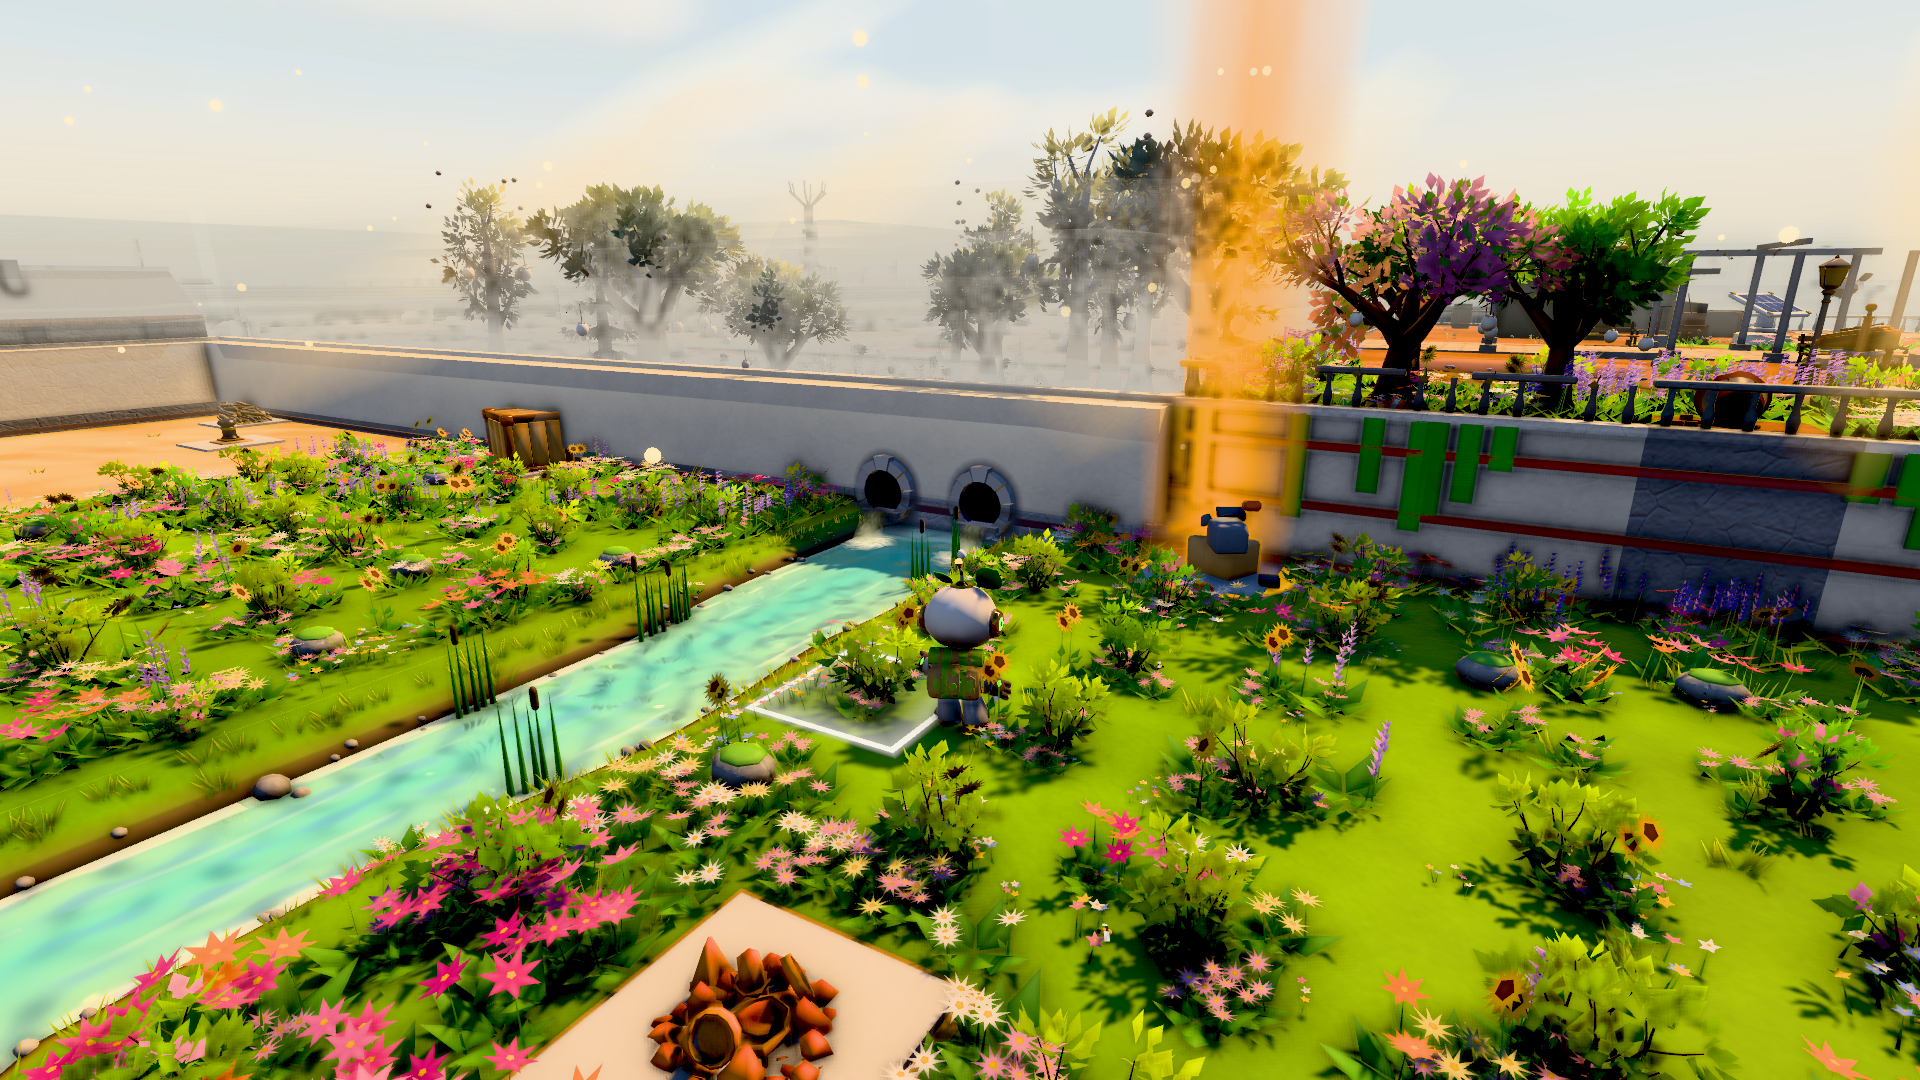
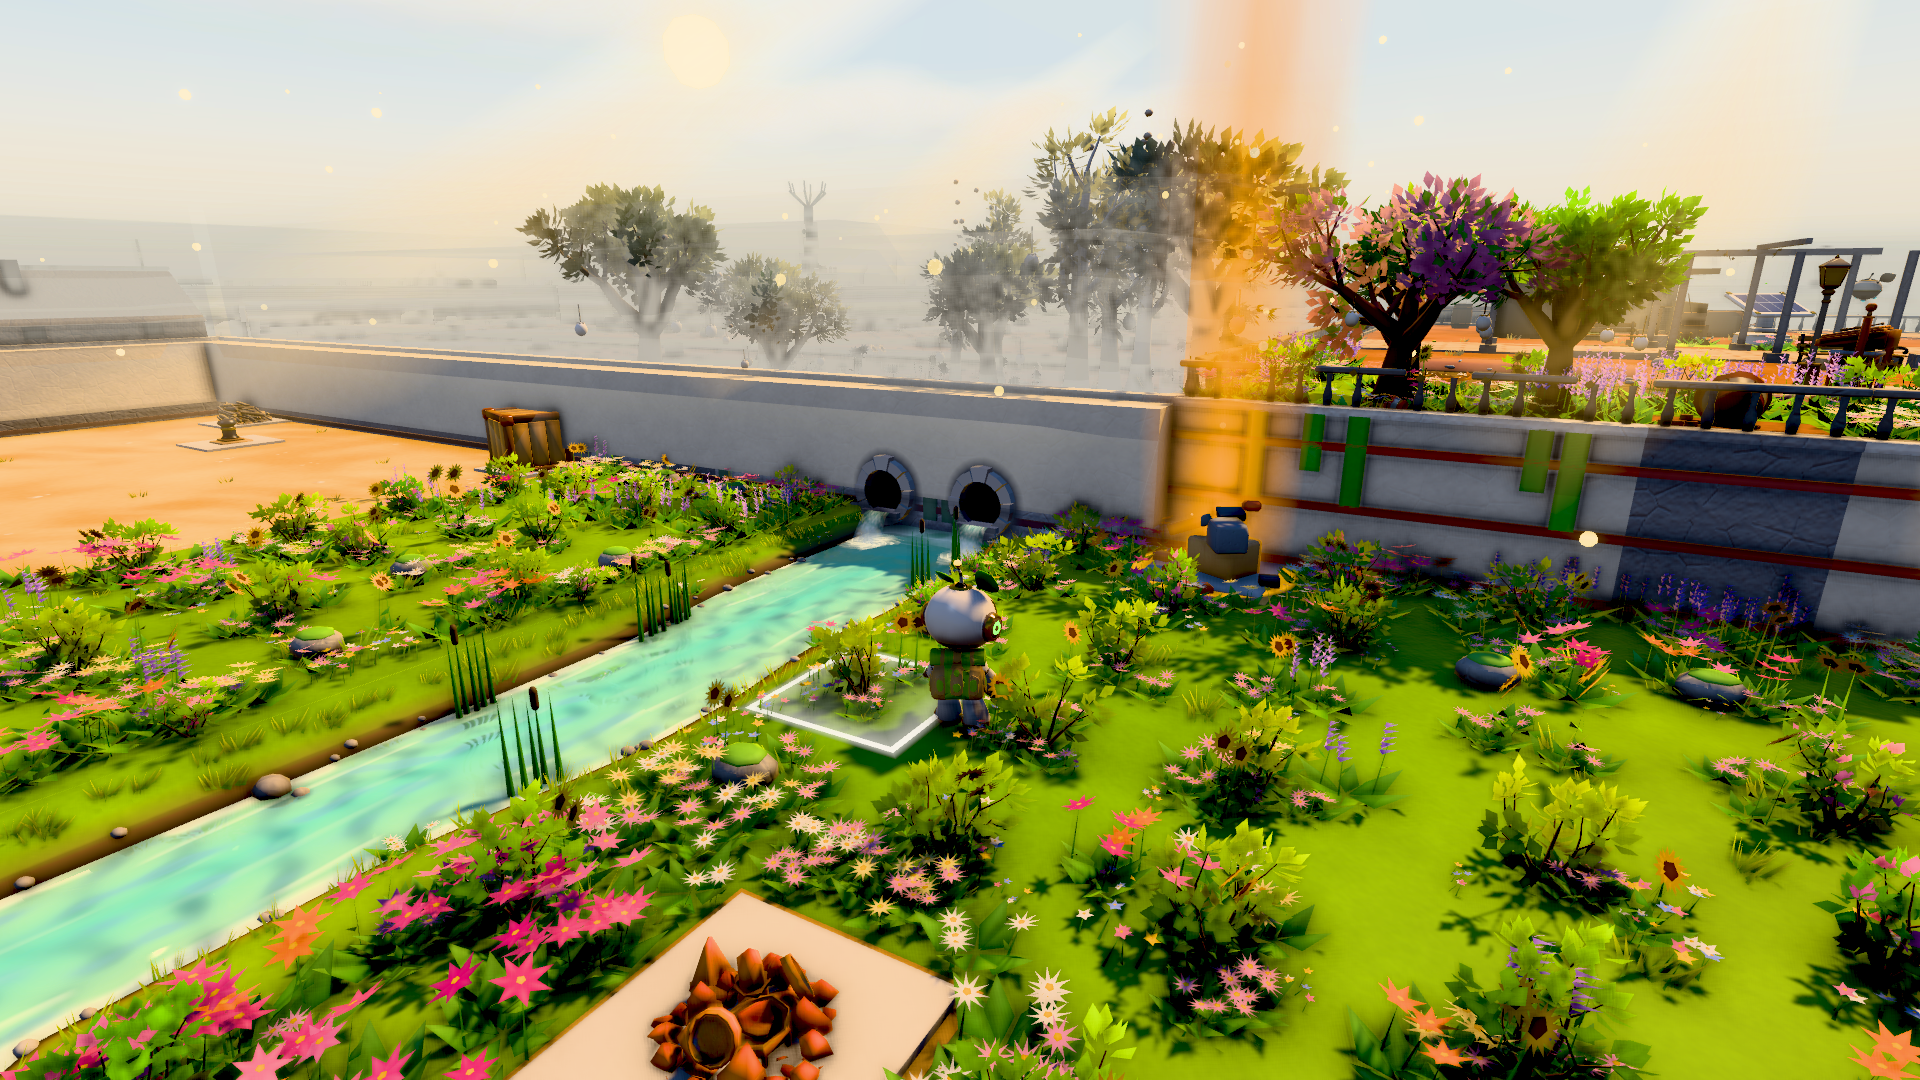
#697 (E28.W04): the outlet's stream is moonlit blue-grey at dusk and night, not amber
The stream, foam and spray were lit two-sided, which turned their normals into the wall where they took the
warm ground bounce. They're one-sided now, and by night they fade to falls.nightColour (#6b8794) with most of
their sheen gone. Fresh culvert shots and close-ups at noon, golden hour, dusk (new) and night.

diff --git a/src/rendering/WaterLife.ts b/src/rendering/WaterLife.ts
@@ -803,7 +803,9 @@ export class WaterLife {
       m.blendType = pc.BLEND_NORMAL;
       m.depthWrite = false;
       m.cull = pc.CULLFACE_NONE;
-      m.twoSidedLighting = true;
+      // one-sided lighting: the sheets' and foam's normals already face out to the water and up. Two-sided lighting
+      // turned them into the wall for whichever side the engine called the back, where they took the warm bounce
+      // off the ground: an amber stream under a blue moonlit night (the send-back on #707)
       m.useFog = true;
       return m;
     };
@@ -879,9 +881,17 @@ export class WaterLife {
       fleck.update();
       // the stream, its foam and spray: lit like the world, with a little light of their own by day only
       const own = new pc.Color().fromString(L.falls.colour).mulScalar(L.falls.glow * (1 - night));
+      // by night the pale stream turns the canal's moonlit blue-grey and loses most of its sheen, so it can't
+      // read as a lamp under the wall
+      const day = new pc.Color().fromString(L.falls.colour);
+      const dark = new pc.Color().fromString(L.falls.nightColour);
+      const diffuse = new pc.Color().lerp(day, dark, night);
+      const sheen = L.falls.sheen * (1 - 0.6 * night);
       for (const [i, m] of this.splash.entries()) {
         // the foam and spray lie in the sun already: half as much of their own as the stream (in the wall's shade)
         m.emissive = i ? own.clone().mulScalar(0.5) : own;
+        m.diffuse = diffuse;
+        m.specular = new pc.Color(sheen, sheen, sheen);
         m.update();
       }
     }

diff --git a/tests/water-life.test.ts b/tests/water-life.test.ts
@@ -72,10 +72,16 @@ describe('LOOK.waterLife', () => {
     expect(L.falls.glow).toBeGreaterThan(0);
     expect(L.falls.glow).toBeLessThanOrEqual(0.4);
     expect(L.falls.sheen).toBeLessThan(1);
+    // by night the stream turns a cool blue-grey, darker than by day: no amber, nothing that reads as a light
+    const rgb = (h: string) => [1, 3, 5].map((i) => parseInt(h.slice(i, i + 2), 16));
+    const [nr, ng, nb] = rgb(L.falls.nightColour);
+    expect(nb).toBeGreaterThan(nr);
+    expect(nb).toBeGreaterThanOrEqual(ng);
+    expect(nr + ng + nb).toBeLessThan(rgb(L.falls.colour).reduce((a, b) => a + b) * 0.7);
     // the stream is narrower than the mouth it pours from
     expect(L.falls.width).toBeLessThan(L.falls.culvert * CULVERT.inner * 2);
     expect(L.fish.minDepth).toBeGreaterThan(0.2 + 0.12);
-    for (const hex of [...L.pads.colours, L.pads.vein, L.pads.flower, L.pads.flowerCore, L.fish.colour, ...L.leaves.colours, L.flecks.colour, L.plants.stalk, L.plants.leaf, L.falls.colour, L.falls.tint, L.falls.stone, L.falls.mouth])
+    for (const hex of [...L.pads.colours, L.pads.vein, L.pads.flower, L.pads.flowerCore, L.fish.colour, ...L.leaves.colours, L.flecks.colour, L.plants.stalk, L.plants.leaf, L.falls.colour, L.falls.tint, L.falls.stone, L.falls.mouth, L.falls.nightColour])
       expect(hex).toMatch(/^#[0-9a-f]{6}$/);
   });
 });

diff --git a/src/data/look.ts b/src/data/look.ts
@@ -410,9 +410,10 @@ export const LOOK = {
      * between them, white in their cores) running down at `speed` (stream lengths a second), at `opacity`, with a
      * `sheen` that catches the sun. Where it lands: soft foam `foam` across, a puff of spray `spray` across, and rings
      * of `ring` strength. All of it is lit like the world (moonlit by night), with `glow` of its colour as light of its
-     * own by day only, fading out with the daylight: nothing glows in the dark.
+     * own by day only, fading out with the daylight: nothing glows in the dark. By night the stream, foam and spray
+     * fade to `nightColour` (the canal's moonlit blue-grey) and lose most of their sheen.
      */
-    falls: { outlet: 0.42, culvert: 0.6, width: 0.28, lip: 0.2, speed: 1.4, colour: '#eaf8f5', tint: '#8fd3cc', opacity: 0.9, sheen: 0.55, glow: 0.3, foam: 0.62, spray: 0.3, ring: 2.4, stone: '#b3a998', mouth: '#1c1b19' },
+    falls: { outlet: 0.42, culvert: 0.6, width: 0.28, lip: 0.2, speed: 1.4, colour: '#eaf8f5', tint: '#8fd3cc', opacity: 0.9, sheen: 0.55, glow: 0.3, foam: 0.62, spray: 0.3, ring: 2.4, stone: '#b3a998', mouth: '#1c1b19', nightColour: '#6b8794' },
   },
 };
 

diff --git a/docs/art/rendering.md b/docs/art/rendering.md
@@ -227,7 +227,10 @@ UI (selection frames, ghost previews) stay at intensity 1 and don't bloom.
     culvert goes on that face instead (`FACADE_DEPTH`). The stream pours off the sill as two lit, glossy sheets whose
     streaks scroll past each other, partly see-through and thinning at the edges and foot. Where it lands there's
     soft, frothy foam in two churning layers, a puff of spray, and rings on the water. All of it is lit like the
-    world, with a little light of its own by day only (`falls.glow`), so it's moonlit at night and never glows.
+    world, with a little light of its own by day only (`falls.glow`), so it's moonlit at night and never glows. By
+    night its colour fades to `falls.nightColour`, the canal's moonlit blue-grey, and most of its sheen goes. The
+    water's lighting is one-sided on purpose: with two-sided lighting the engine turned the sheets' normals into the
+    wall, where they picked up the warm bounce off the ground and the stream went amber under a blue night.
 
   Each chunk hands its life to `setWaterLife` as it builds (near chunks only). `WaterLife` draws the nearest of each
   kind round the camera's focus (`LOOK.waterLife.radius`, capped by `max`): one instanced draw per kind in view, 11 at
